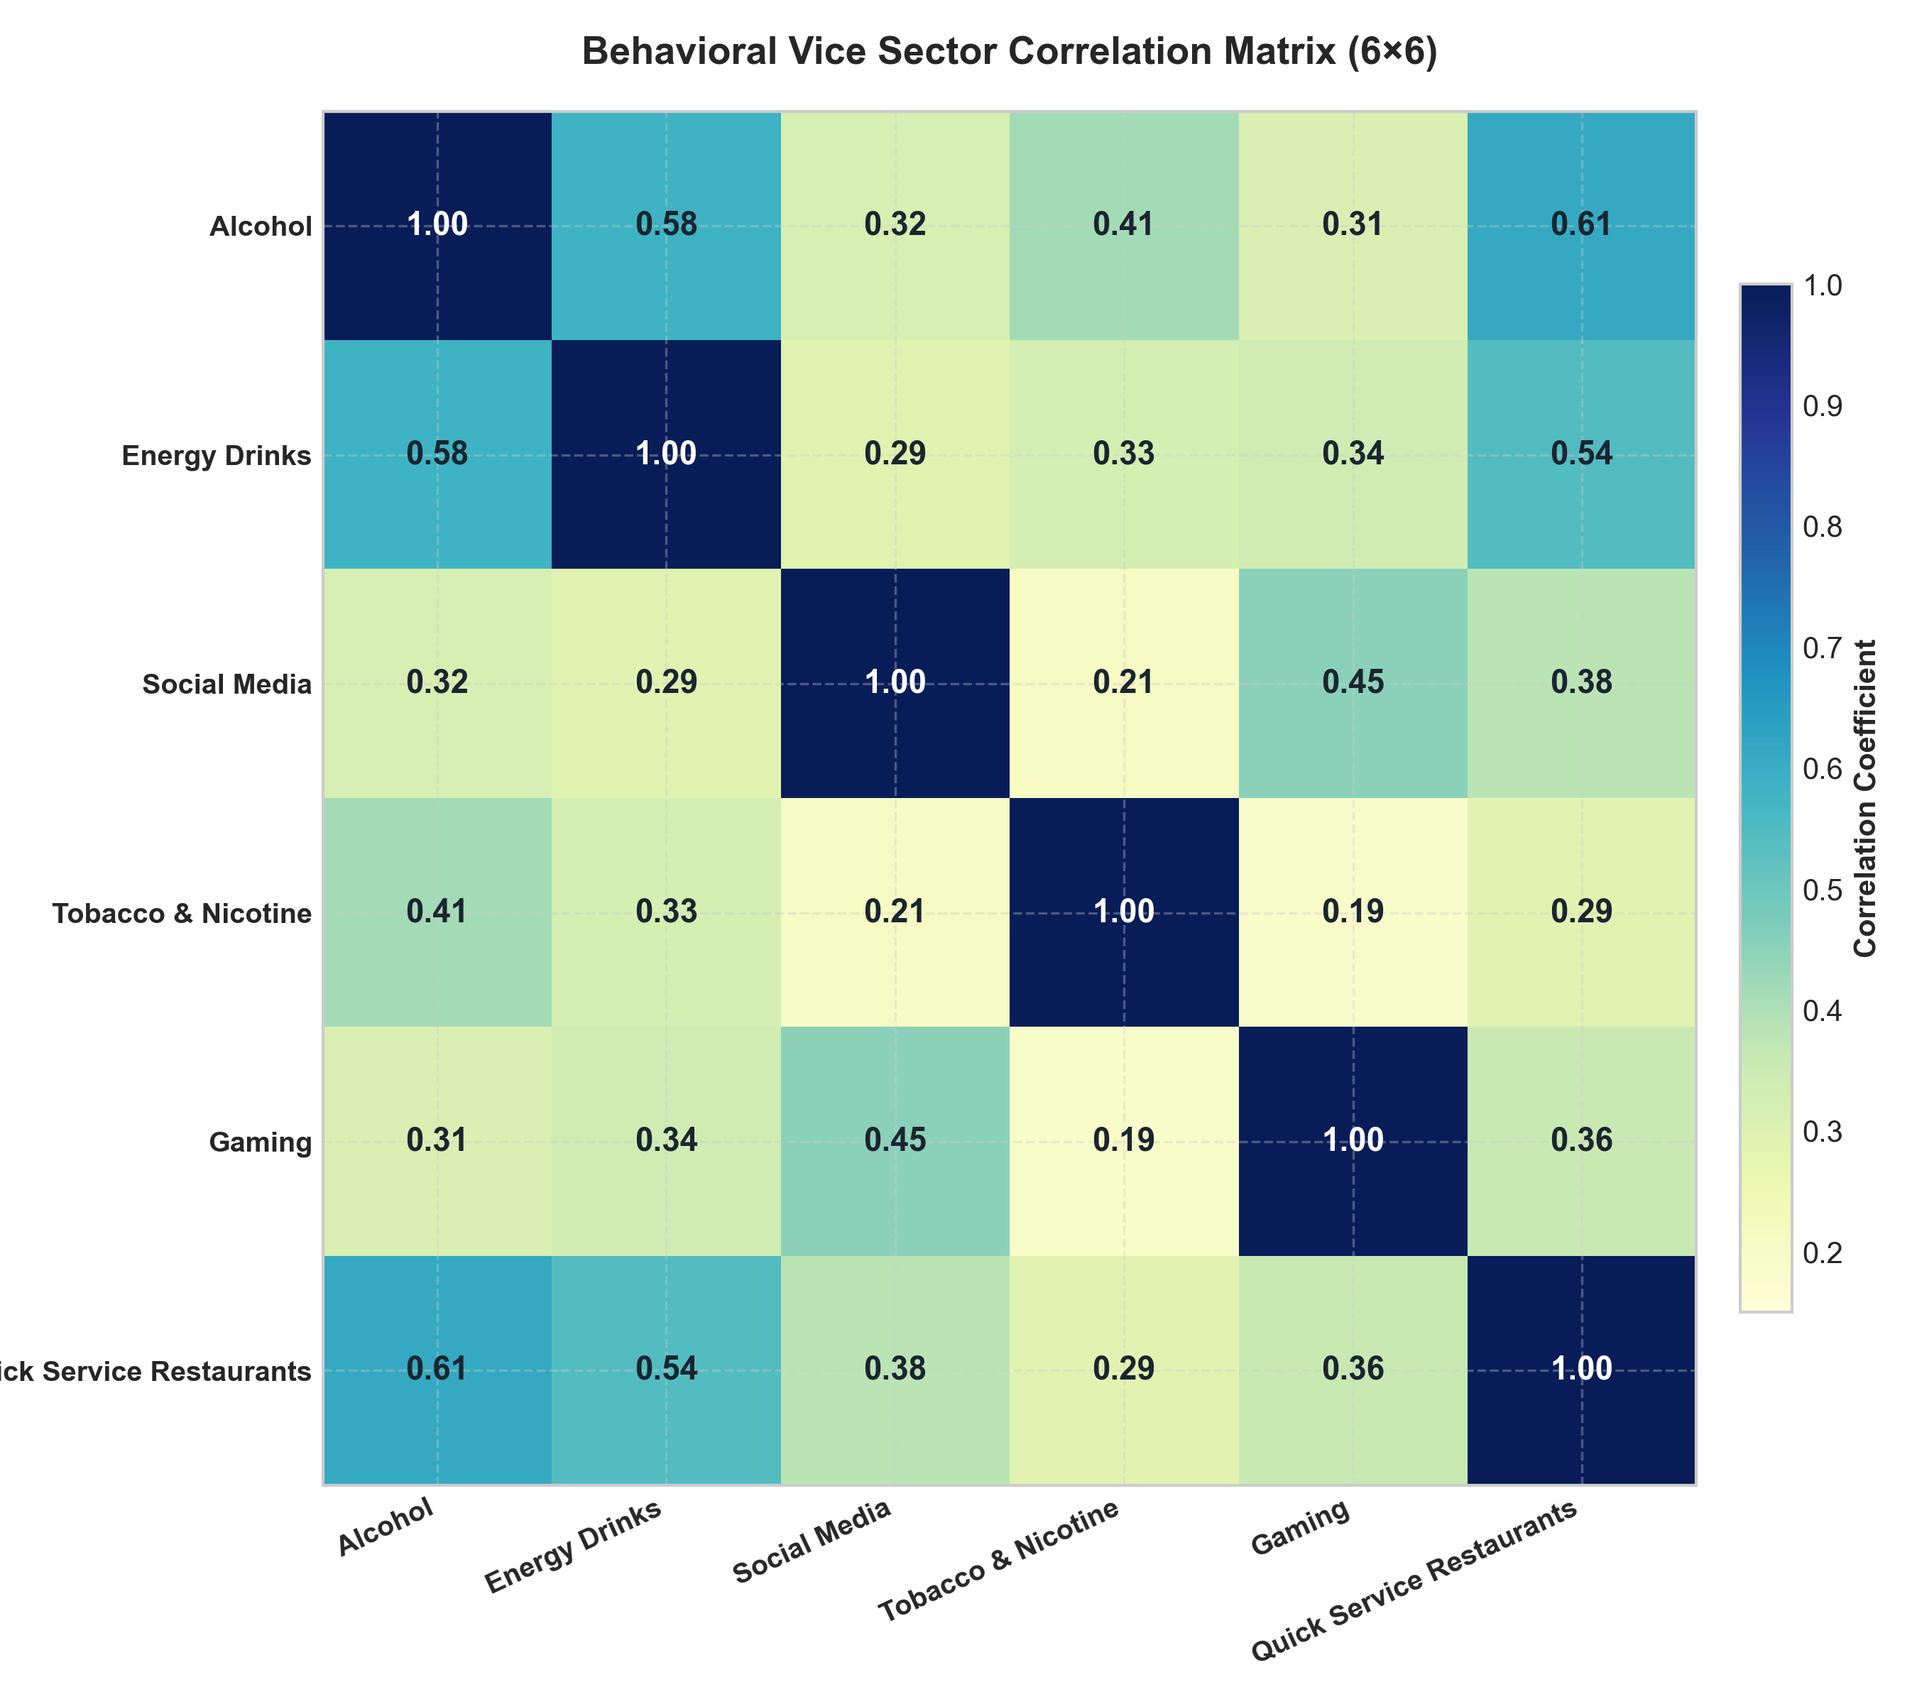
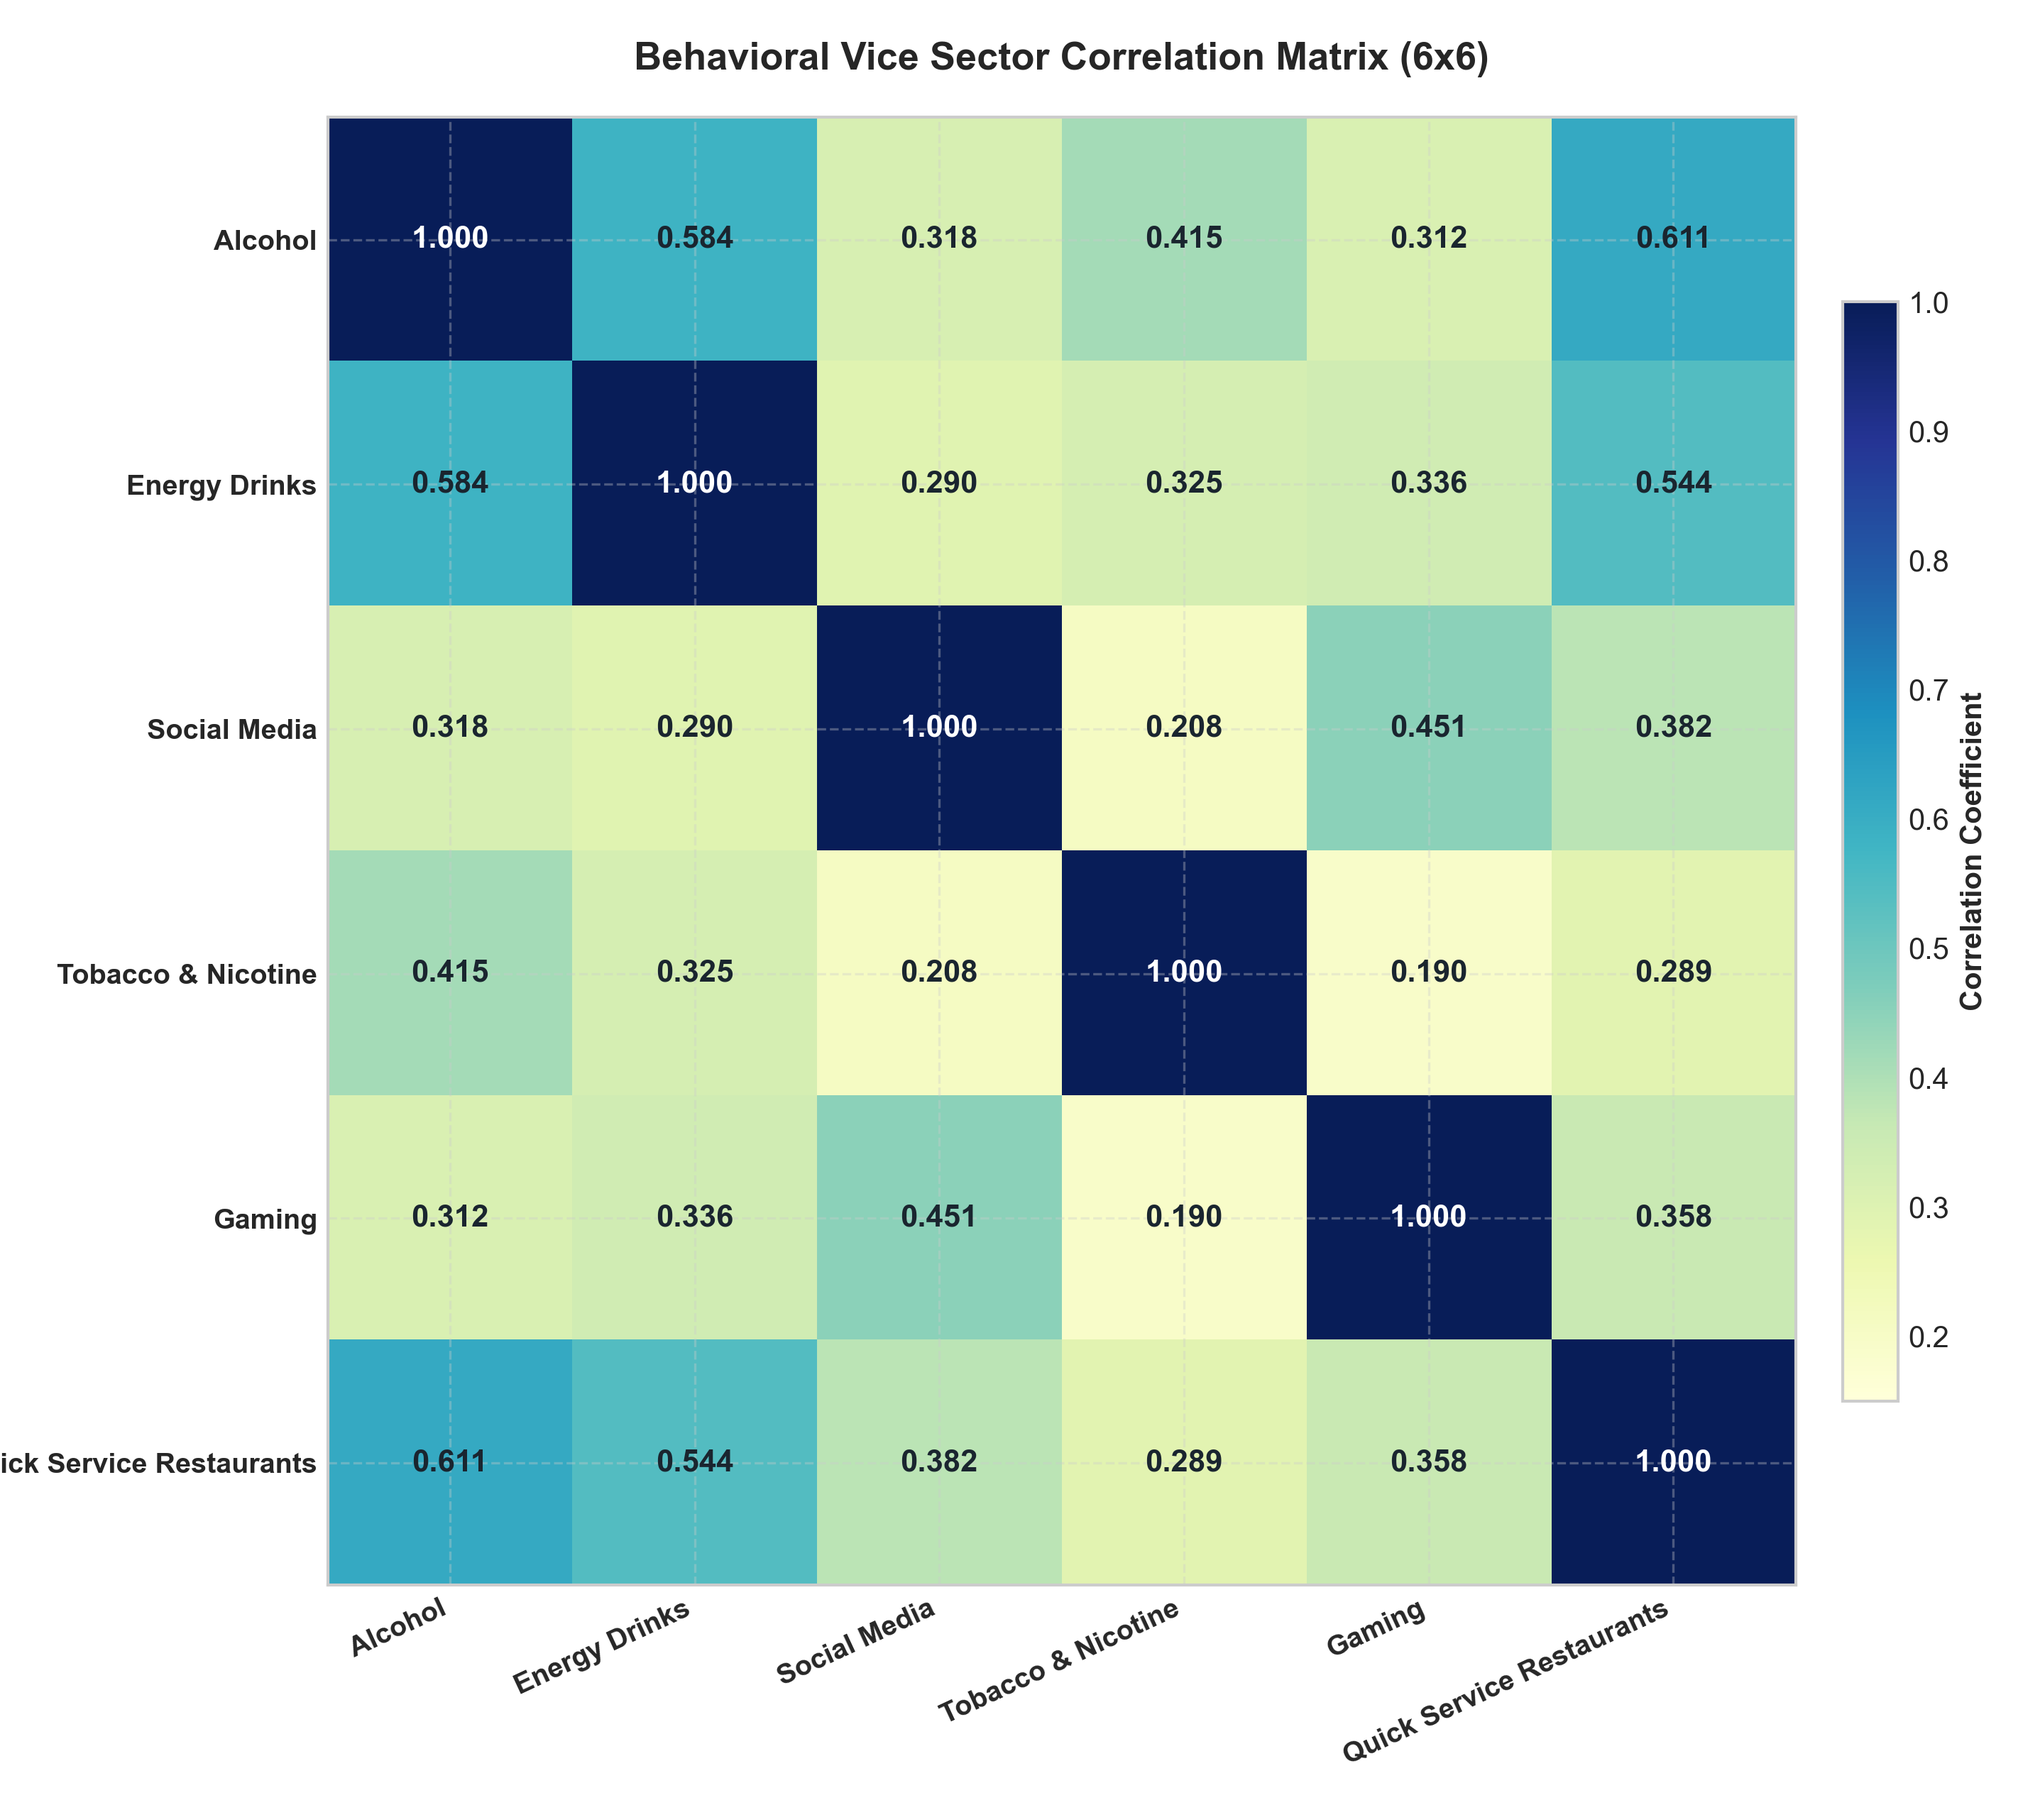
refactor: enhance sector and strategy correlation heatmap visualizations

diff --git a/reporting/plots.py b/reporting/plots.py
@@ -209,13 +209,13 @@ def plot_allocation_heatmap(
 
 
 def plot_sector_correlation_heatmap(sector_correlation: pd.DataFrame, save_path: Path) -> None:
-    """6x6 Behavioral Vice Sector correlation heatmap with cell annotations."""
+    """6x6 Behavioral Vice Sector correlation heatmap with in-cell numerical annotations."""
     sectors = list(sector_correlation.index)
     data = sector_correlation.to_numpy()
 
     _apply_theme()
-    fig, ax = plt.subplots(figsize=(9, 8))
-    im = ax.imshow(data, cmap="RdBu_r", vmin=1.0, vmax=1.0, interpolation="nearest")
+    fig, ax = plt.subplots(figsize=(9.5, 8.5))
+    im = ax.imshow(data, cmap="YlGnBu", vmin=0.15, vmax=1.0, interpolation="nearest")
 
     ax.set_xticks(range(len(sectors)))
     ax.set_xticklabels(sectors, rotation=25, ha="right", fontsize=9.5, fontweight="bold")
@@ -226,15 +226,15 @@ def plot_sector_correlation_heatmap(sector_correlation: pd.DataFrame, save_path:
     for r in range(len(sectors)):
         for c in range(len(sectors)):
             val = data[r, c]
-            text_color = "white" if abs(val) > 0.65 else "#1a252f"
+            text_color = "white" if val > 0.65 else "#1a252f"
             ax.text(
                 c,
                 r,
-                f"{val:.2f}",
+                f"{val:.3f}",
                 ha="center",
                 va="center",
                 color=text_color,
-                fontsize=11,
+                fontsize=10.5,
                 fontweight="bold",
             )
 
@@ -257,7 +257,7 @@ def plot_strategy_correlation_heatmap(strategy_returns: pd.DataFrame, save_path:
 
     _apply_theme()
     fig, ax = plt.subplots(figsize=(10, 8.5))
-    im = ax.imshow(data, cmap="RdBu_r", vmin=-1.0, vmax=1.0, interpolation="nearest")
+    im = ax.imshow(data, cmap="Blues", vmin=0.50, vmax=1.0, interpolation="nearest")
 
     ax.set_xticks(range(len(strategies)))
     ax.set_xticklabels(strategies, rotation=28, ha="right", fontsize=9, fontweight="bold")
@@ -268,7 +268,7 @@ def plot_strategy_correlation_heatmap(strategy_returns: pd.DataFrame, save_path:
     for r in range(len(strategies)):
         for c in range(len(strategies)):
             val = data[r, c]
-            text_color = "white" if abs(val) > 0.65 else "#1a252f"
+            text_color = "white" if val > 0.82 else "#1a252f"
             ax.text(
                 c,
                 r,
